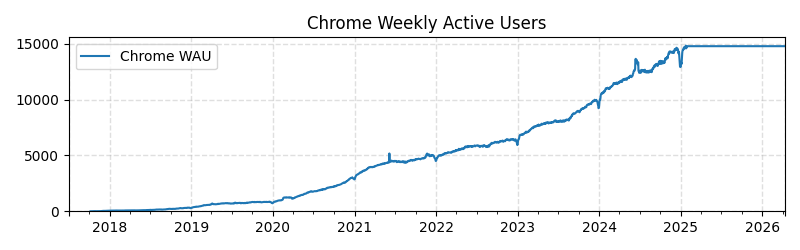
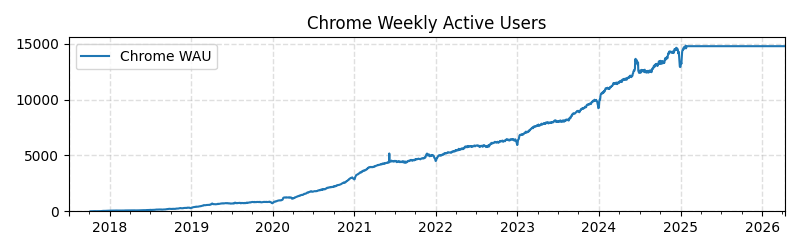
Deploying to gh-pages from @ ActivityWatch/activitywatch.github.io@3dd0930ee359349901a185e8b0423fb35e4007ce 🚀

diff --git a/contributors/index.html b/contributors/index.html
@@ -6613,7 +6613,7 @@
 
 <p>
   <small>
-    <i>Last updated: 2026-04-12 03:51:39 +0000</i>
+    <i>Last updated: 2026-04-13 03:59:06 +0000</i>
   </small>
 </p><hr>
 